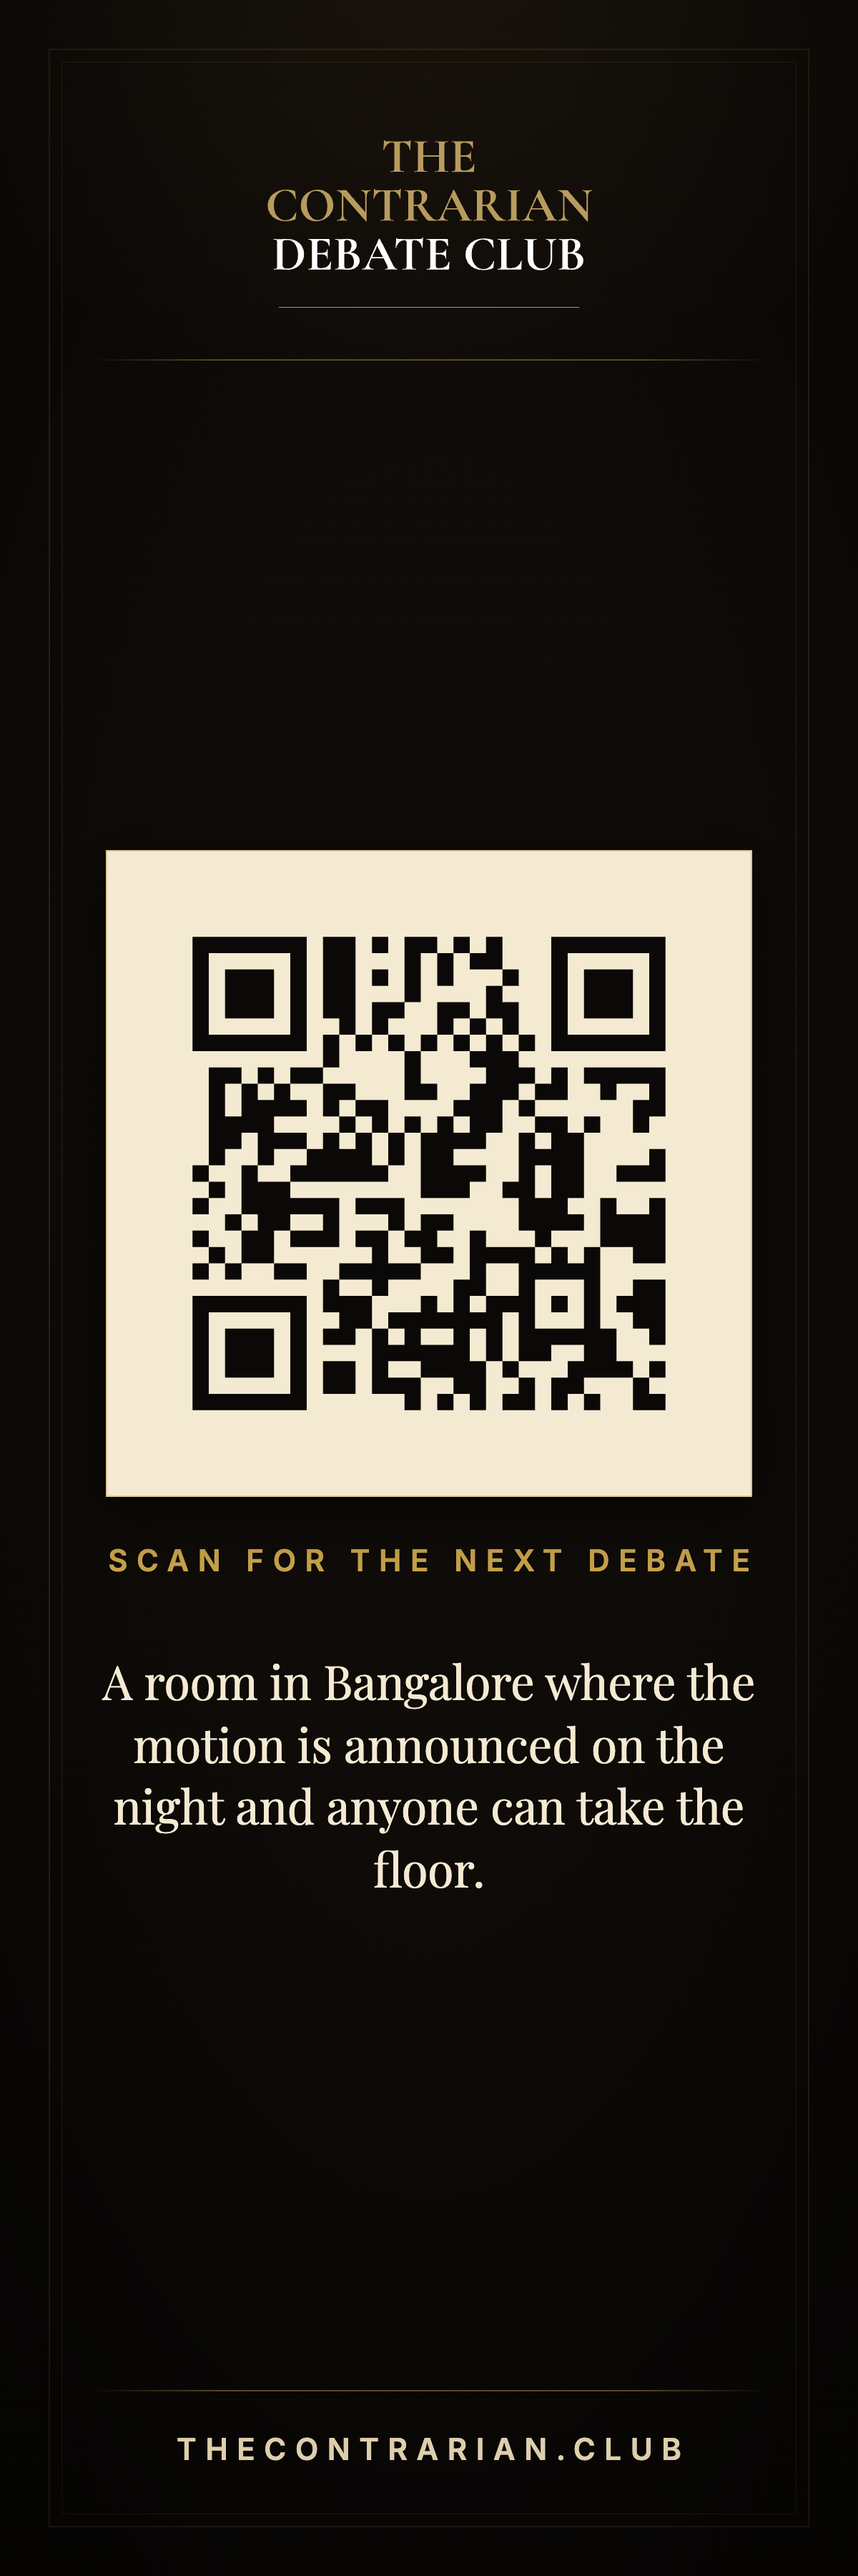
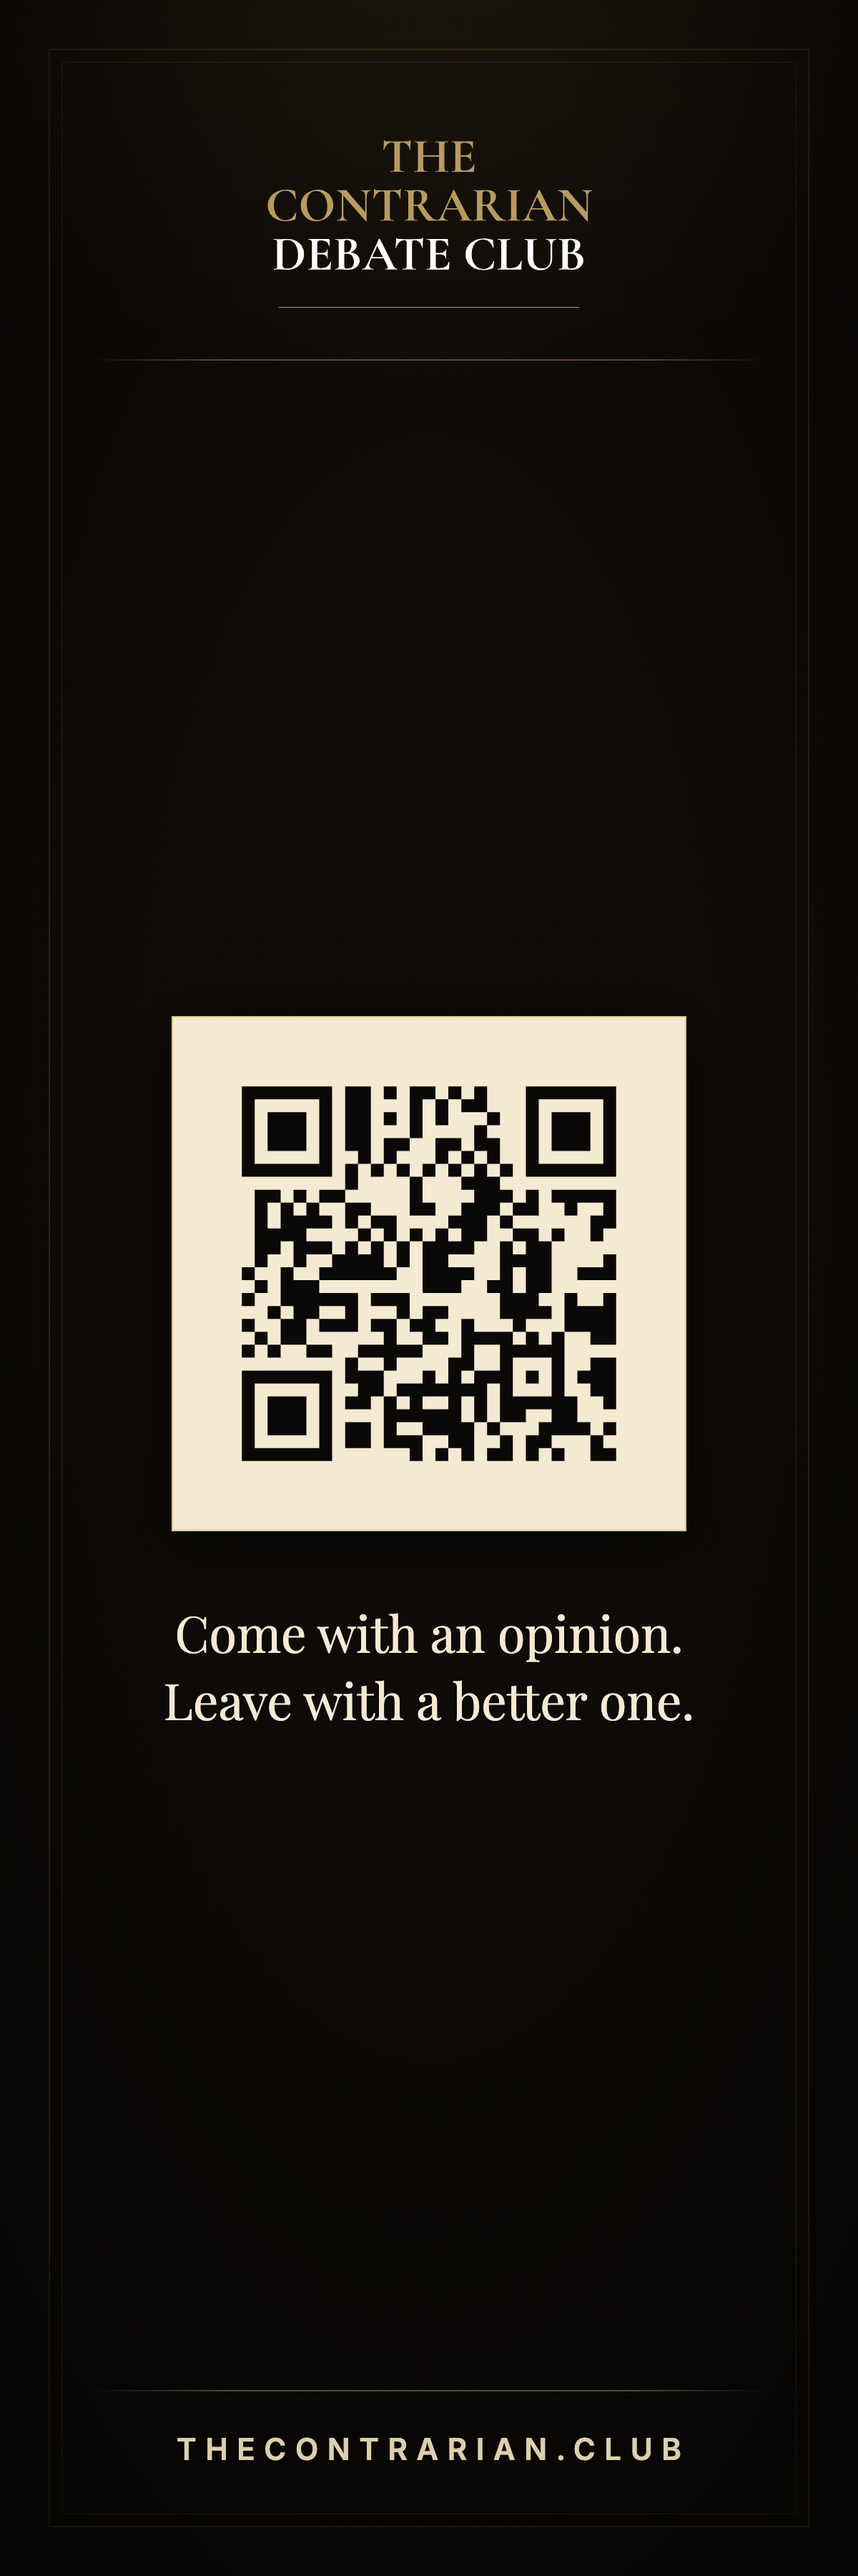
fix(posters): let the bookmark's code stand without an instruction

Changed region(s): [[0.1233, 0.3111, 0.8942, 0.7467]]

diff --git a/posters/works/2026-08-22-bookmark/slides.tsx b/posters/works/2026-08-22-bookmark/slides.tsx
@@ -505,13 +505,11 @@ export function Index({
 
 export function Back({
   qr,
-  kicker,
   blurb,
   url,
   bleed,
 }: {
   qr: string;
-  kicker: string;
   blurb: ReactNode;
   url: string;
   bleed?: number;
@@ -535,18 +533,15 @@ export function Back({
             flexDirection: "column",
             justifyContent: "center",
             alignItems: "center",
-            gap: 32,
+            gap: 48,
           }}
         >
           <div className="bm-qr">
             <img src={qr} alt={`QR code for ${url}`} />
           </div>
-          <Micro size={21} tracking={0.3}>
-            {kicker}
-          </Micro>
           <p
             className="value"
-            style={{ fontSize: 33, lineHeight: 1.32, textAlign: "center", margin: "18px 0 0" }}
+            style={{ fontSize: 35, lineHeight: 1.34, textAlign: "center", margin: 0 }}
           >
             {blurb}
           </p>

diff --git a/posters/works/2026-08-22-bookmark/spec.tsx b/posters/works/2026-08-22-bookmark/spec.tsx
@@ -150,12 +150,11 @@ const work: WorkSpec = {
         <Back
           bleed={format.bleed}
           qr={qr}
-          kicker="Scan for the next debate"
           blurb={
             <>
-              A room in Bangalore where the motion is
-              announced on the night and anyone can
-              take the floor.
+              Come with an opinion.
+              <br />
+              Leave with a better one.
             </>
           }
           url="thecontrarian.club"

diff --git a/posters/works/2026-08-22-bookmark/slides.css b/posters/works/2026-08-22-bookmark/slides.css
@@ -239,8 +239,8 @@
    costing reads.                                                           */
 .bm-qr {
   position: relative;
-  width: 452px;
-  padding: 14px;
+  width: 360px;
+  padding: 12px;
   background: var(--cc-ivory);
   border: 1px solid rgba(200, 162, 74, 0.5);
   box-shadow: 0 10px 40px rgba(0, 0, 0, 0.6);
